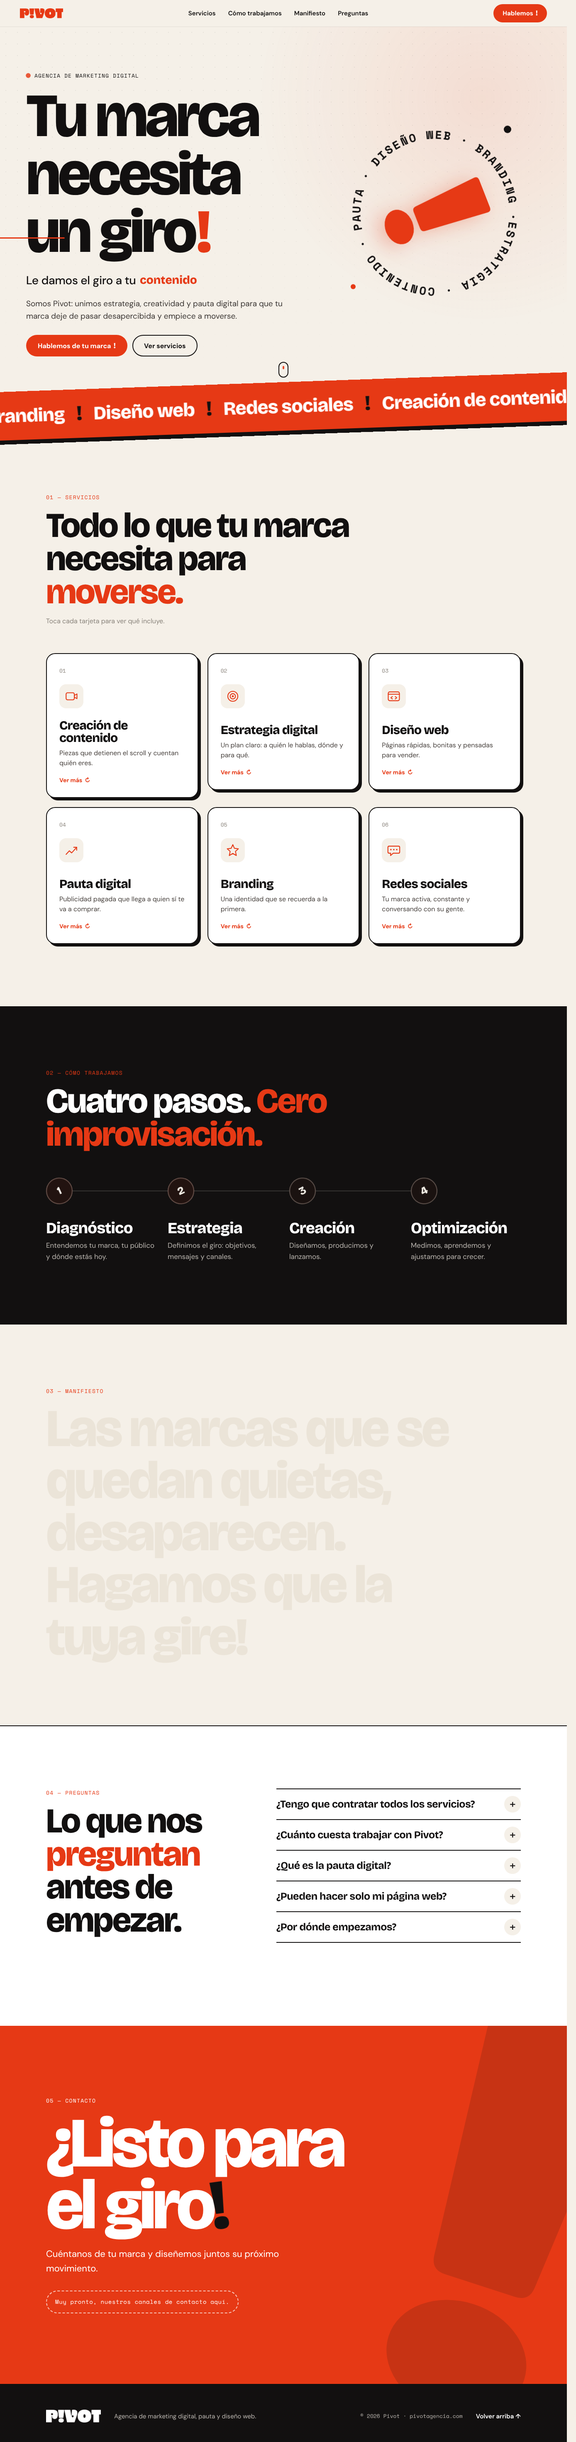
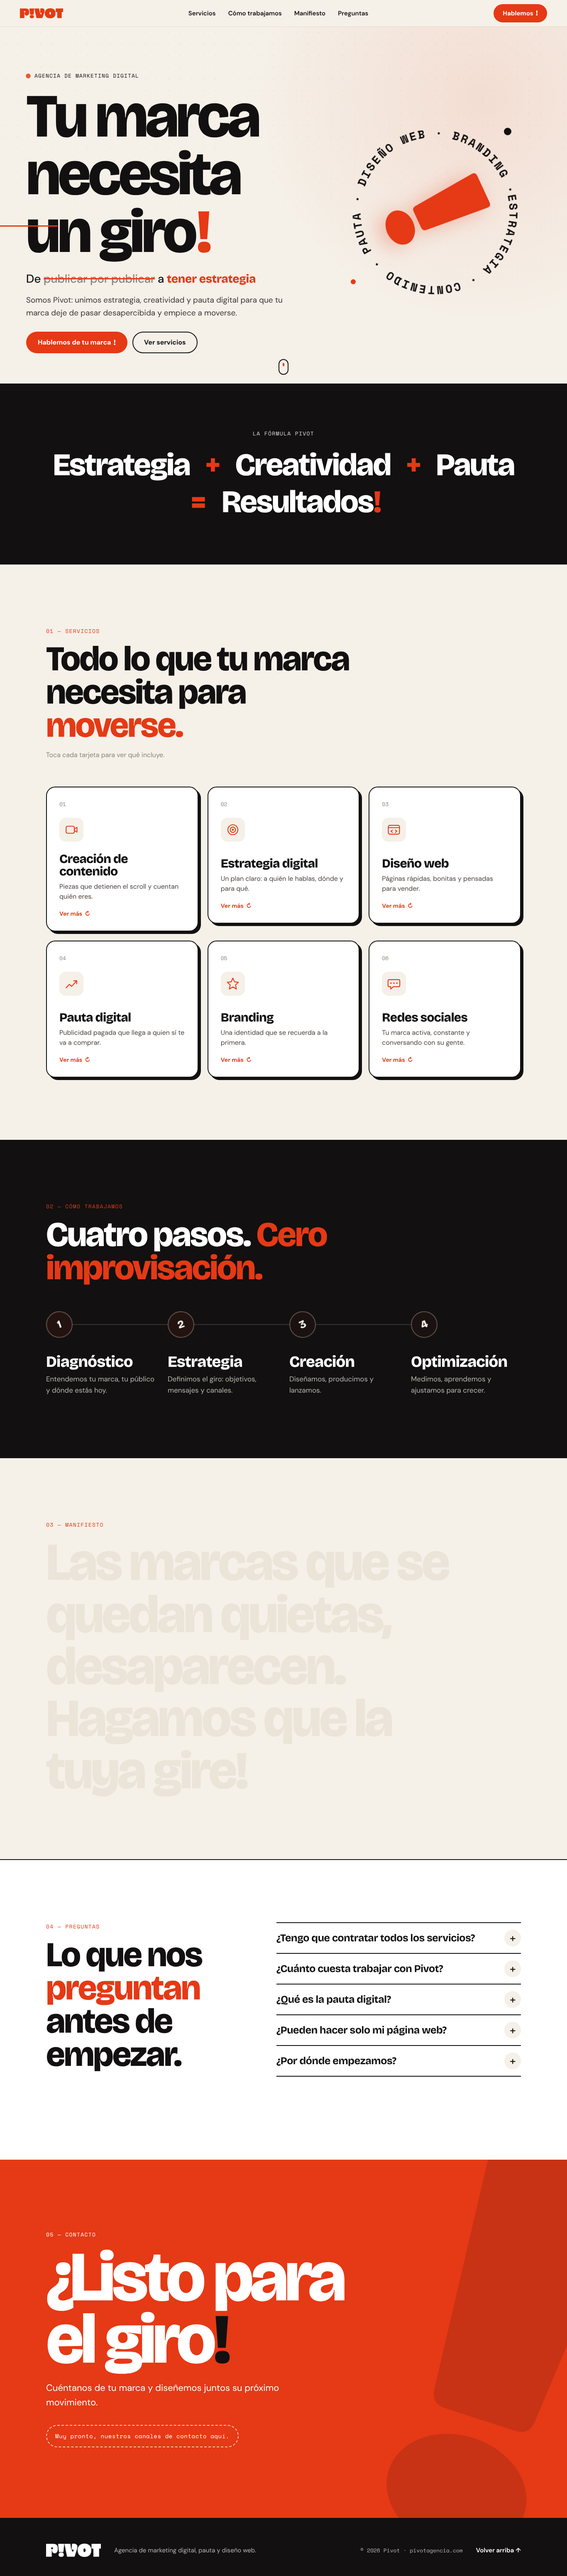
Pivot: fórmula animada en lugar de la cinta y frases De… a… en la portada
Claude-Session: https://claude.ai/code/session_01ByuyTkSmciSbnL1bviTqPH

diff --git a/pivot/web/styles.css b/pivot/web/styles.css
@@ -155,19 +155,16 @@ p { margin: 0; }
 .hero-title .line > span { display: inline-block; }
 .hero-title em { font-style: normal; color: var(--red); display: inline-block; margin-left: .02em; }
 
-.rotator {
-  display: flex; flex-wrap: wrap; align-items: baseline; column-gap: .35em;
-  margin-top: 22px; font-size: clamp(20px, 3.4vw, 28px); font-weight: 500;
-}
-.rotator-words {
-  position: relative; display: inline-grid; height: 1.3em; overflow: hidden;
-  perspective: 600px; font-family: var(--f-display); font-weight: 800; color: var(--red);
-}
+.rotator { margin-top: 22px; font-size: clamp(20px, 3.4vw, 28px); font-weight: 500; line-height: 1.25; }
+.rotator-words { display: grid; perspective: 600px; }
 .rotator-words > span {
-  grid-area: 1 / 1; line-height: 1.3; white-space: nowrap;
+  grid-area: 1 / 1; align-self: start;
   transform-origin: 50% 50% -.6em; transform: rotateX(-90deg); opacity: 0;
   transition: transform .6s var(--spring), opacity .4s;
 }
+.rotator-words s { color: var(--stone); text-decoration-color: var(--red); text-decoration-thickness: 3px; }
+.rotator-words b { font-family: var(--f-display); font-weight: 800; color: var(--red); letter-spacing: -.01em; }
+@media (max-width: 599px) { .rotator-words .to { display: block; } }
 .rotator-words > span.is-on { transform: rotateX(0); opacity: 1; }
 .rotator-words > span.is-out { transform: rotateX(90deg); opacity: 0; }
 
@@ -216,19 +213,38 @@ p { margin: 0; }
 .js .hero-art { opacity: 0; transform: scale(.85) rotate(-20deg); transition: opacity .9s .3s, transform 1.2s .3s var(--spring); }
 .loaded .hero-art { opacity: 1; transform: none; }
 
-/* ===== Cinta ===== */
-.marquee {
-  position: relative; z-index: 2; overflow: hidden;
-  background: var(--red); color: var(--white);
-  transform: rotate(-2deg); margin: -10px -20px 0; padding: 18px 0;
-  box-shadow: 0 10px 0 var(--ink);
+/* ===== Fórmula ===== */
+.formula {
+  position: relative; z-index: 2; background: var(--ink); color: var(--white);
+  padding: clamp(64px, 9vw, 110px) 0; text-align: center;
 }
-.marquee-track {
-  display: flex; align-items: center; gap: 28px; width: max-content;
-  font-family: var(--f-display); font-weight: 800; font-size: clamp(26px, 4.5vw, 46px);
-  letter-spacing: -.02em; white-space: nowrap; will-change: transform;
+.formula .label { margin-bottom: 26px; }
+.equation {
+  display: flex; flex-wrap: wrap; justify-content: center; align-items: center;
+  gap: .12em .32em;
+  font-family: var(--f-display); font-weight: 800; letter-spacing: -.035em; line-height: 1.05;
+  font-size: clamp(40px, 5.6vw, 76px);
 }
-.marquee-track b { color: var(--ink); font-size: 1.1em; }
+.term, .op { display: inline-block; }
+.op { color: var(--red); width: .8em; text-align: center; }
+.term-result em { font-style: normal; color: var(--red); display: inline-block; transform-origin: 50% 85%; }
+
+/* Animación: entra cada palabra, los + giran, el = pivota y aparece el ! */
+.js .formula .term { opacity: 0; transform: translateY(40%); transition: opacity .6s var(--ease), transform .7s var(--spring); }
+.js .formula .op { opacity: 0; transform: rotate(-180deg) scale(.4); transition: opacity .4s, transform .8s var(--spring); }
+.js .formula .term-result em { transform: scale(0) rotate(-90deg); transition: transform .7s var(--spring); }
+.js .formula.play .term, .js .formula.play .op { opacity: 1; transform: none; }
+.js .formula.play .op-eq { transform: rotate(180deg); }
+.js .formula.play .term-result em { transform: none; }
+.formula.play .term-result em { animation: wobble 2.4s var(--ease) 3.2s infinite; }
+.formula .equation > :nth-child(1) { transition-delay: 0s; }
+.formula .equation > :nth-child(2) { transition-delay: .35s; }
+.formula .equation > :nth-child(3) { transition-delay: .55s; }
+.formula .equation > :nth-child(4) { transition-delay: .9s; }
+.formula .equation > :nth-child(5) { transition-delay: 1.1s; }
+.formula .equation > :nth-child(6) { transition-delay: 1.5s; }
+.formula .equation > :nth-child(7) { transition-delay: 1.8s; }
+.js .formula .term-result em { transition-delay: 2.4s; }
 
 /* ===== Secciones ===== */
 .section { padding: clamp(80px, 12vw, 150px) 0; }
@@ -389,7 +405,8 @@ p { margin: 0; }
 @media (prefers-reduced-motion: reduce) {
   html { scroll-behavior: auto; }
   *, *::before, *::after { animation: none !important; transition: none !important; }
-  .js .reveal, .js .hero-art, .js .hero-title .line > span { opacity: 1 !important; transform: none !important; }
+  .js .reveal, .js .hero-art, .js .hero-title .line > span,
+  .js .formula .term, .js .formula .op, .js .formula .term-result em { opacity: 1 !important; transform: none !important; }
   .card-inner, .card-inner.flipped { transform: none !important; display: flex; flex-direction: column; gap: 12px; }
   .face { -webkit-backface-visibility: visible; backface-visibility: visible; }
   .back { transform: none; }

diff --git a/pivot/web/index.html b/pivot/web/index.html
@@ -17,7 +17,7 @@
   <link rel="preconnect" href="https://fonts.googleapis.com">
   <link rel="preconnect" href="https://fonts.gstatic.com" crossorigin>
   <link href="https://fonts.googleapis.com/css2?family=Bricolage+Grotesque:opsz,wght@12..96,500..800&family=DM+Sans:opsz,wght@9..40,400..700&family=Space+Mono:wght@400;700&display=swap" rel="stylesheet">
-  <link rel="stylesheet" href="styles.css?v=1">
+  <link rel="stylesheet" href="styles.css?v=2">
   <script>document.documentElement.classList.add('js');</script>
 </head>
 <body>
@@ -50,14 +50,13 @@
             <span class="line"><span>un giro<em>!</em></span></span>
           </h1>
           <p class="rotator reveal">
-            <span class="rotator-label">Le damos el giro a tu</span>
-            <span class="sr-only">contenido, pauta, branding, diseño web y estrategia.</span>
+            <span class="sr-only">De invisible a inolvidable. De seguidores a clientes. De likes a ventas. De publicar por publicar a tener estrategia. De una más a la elegida.</span>
             <span class="rotator-words" id="rotator" aria-hidden="true">
-              <span class="is-on">contenido</span>
-              <span>pauta</span>
-              <span>branding</span>
-              <span>diseño web</span>
-              <span>estrategia</span>
+              <span class="is-on">De <s>invisible</s> <span class="to">a <b>inolvidable</b></span></span>
+              <span>De <s>seguidores</s> <span class="to">a <b>clientes</b></span></span>
+              <span>De <s>likes</s> <span class="to">a <b>ventas</b></span></span>
+              <span>De <s>publicar por publicar</s> <span class="to">a <b>tener estrategia</b></span></span>
+              <span>De <s>una más</s> <span class="to">a <b>la elegida</b></span></span>
             </span>
           </p>
           <p class="lead reveal">Somos Pivot: unimos estrategia, creatividad y pauta digital para que tu marca deje de pasar desapercibida y empiece a moverse.</p>
@@ -85,17 +84,21 @@
       <a class="scroll-hint" href="#servicios" aria-label="Bajar a servicios"><span></span></a>
     </section>
 
-    <!-- CINTA -->
-    <div class="marquee" aria-hidden="true">
-      <div class="marquee-track" id="marquee">
-        <span>Creación de contenido</span><b>!</b>
-        <span>Estrategia digital</span><b>!</b>
-        <span>Pauta digital</span><b>!</b>
-        <span>Branding</span><b>!</b>
-        <span>Diseño web</span><b>!</b>
-        <span>Redes sociales</span><b>!</b>
+    <!-- FÓRMULA -->
+    <section class="formula" id="formula" aria-label="La fórmula Pivot">
+      <div class="wrap">
+        <p class="label label-light">La fórmula Pivot</p>
+        <p class="equation">
+          <span class="term">Estrategia</span>
+          <span class="op op-plus" aria-hidden="true">+</span>
+          <span class="term">Creatividad</span>
+          <span class="op op-plus" aria-hidden="true">+</span>
+          <span class="term">Pauta</span>
+          <span class="op op-eq" aria-hidden="true">=</span>
+          <span class="term term-result">Resultados<em>!</em></span>
+        </p>
       </div>
-    </div>
+    </section>
 
     <!-- SERVICIOS -->
     <section class="section services" id="servicios">
@@ -348,6 +351,6 @@
     </div>
   </footer>
 
-  <script src="script.js?v=1"></script>
+  <script src="script.js?v=2"></script>
 </body>
 </html>

diff --git a/pivot/web/script.js b/pivot/web/script.js
@@ -40,7 +40,7 @@ if (rotator && !reduceMotion) {
     words[i].classList.remove('is-out');
     words[i].classList.add('is-on');
     setTimeout(() => prev.classList.remove('is-out'), 650);
-  }, 2200);
+  }, 2600);
 }
 
 // Tarjetas de servicios: se voltean al tocarlas
@@ -125,32 +125,20 @@ window.addEventListener('scroll', () => {
 window.addEventListener('resize', onScroll);
 onScroll();
 
-// Cinta: se mueve sola y cambia de dirección según hacia dónde bajes
-const marquee = document.getElementById('marquee');
-if (marquee && !reduceMotion) {
-  // Duplicar el contenido para que la cinta no tenga cortes
-  const count = marquee.children.length;
-  marquee.innerHTML += marquee.innerHTML;
-  let x = 0;
-  let dir = -1;
-  let boost = 0;
-  let lastY = window.scrollY;
-  window.addEventListener('scroll', () => {
-    const dy = window.scrollY - lastY;
-    if (dy !== 0) dir = dy > 0 ? -1 : 1;
-    boost = Math.min(boost + Math.abs(dy) * 0.04, 6);
-    lastY = window.scrollY;
-  }, { passive: true });
-  const tick = () => {
-    const half = marquee.children[count].offsetLeft - marquee.children[0].offsetLeft;
-    x += dir * (0.6 + boost);
-    boost *= 0.92;
-    if (x <= -half) x += half;
-    if (x > 0) x -= half;
-    marquee.style.transform = `translate3d(${x}px,0,0)`;
-    requestAnimationFrame(tick);
-  };
-  requestAnimationFrame(tick);
+// Fórmula: se arma cuando aparece en pantalla
+const formula = document.getElementById('formula');
+if (formula) {
+  if ('IntersectionObserver' in window && !reduceMotion) {
+    const fo = new IntersectionObserver(([entry]) => {
+      if (entry.isIntersecting) {
+        formula.classList.add('play');
+        fo.disconnect();
+      }
+    }, { threshold: 0.5 });
+    fo.observe(formula);
+  } else {
+    formula.classList.add('play');
+  }
 }
 
 // Cursor rojo en computadora
